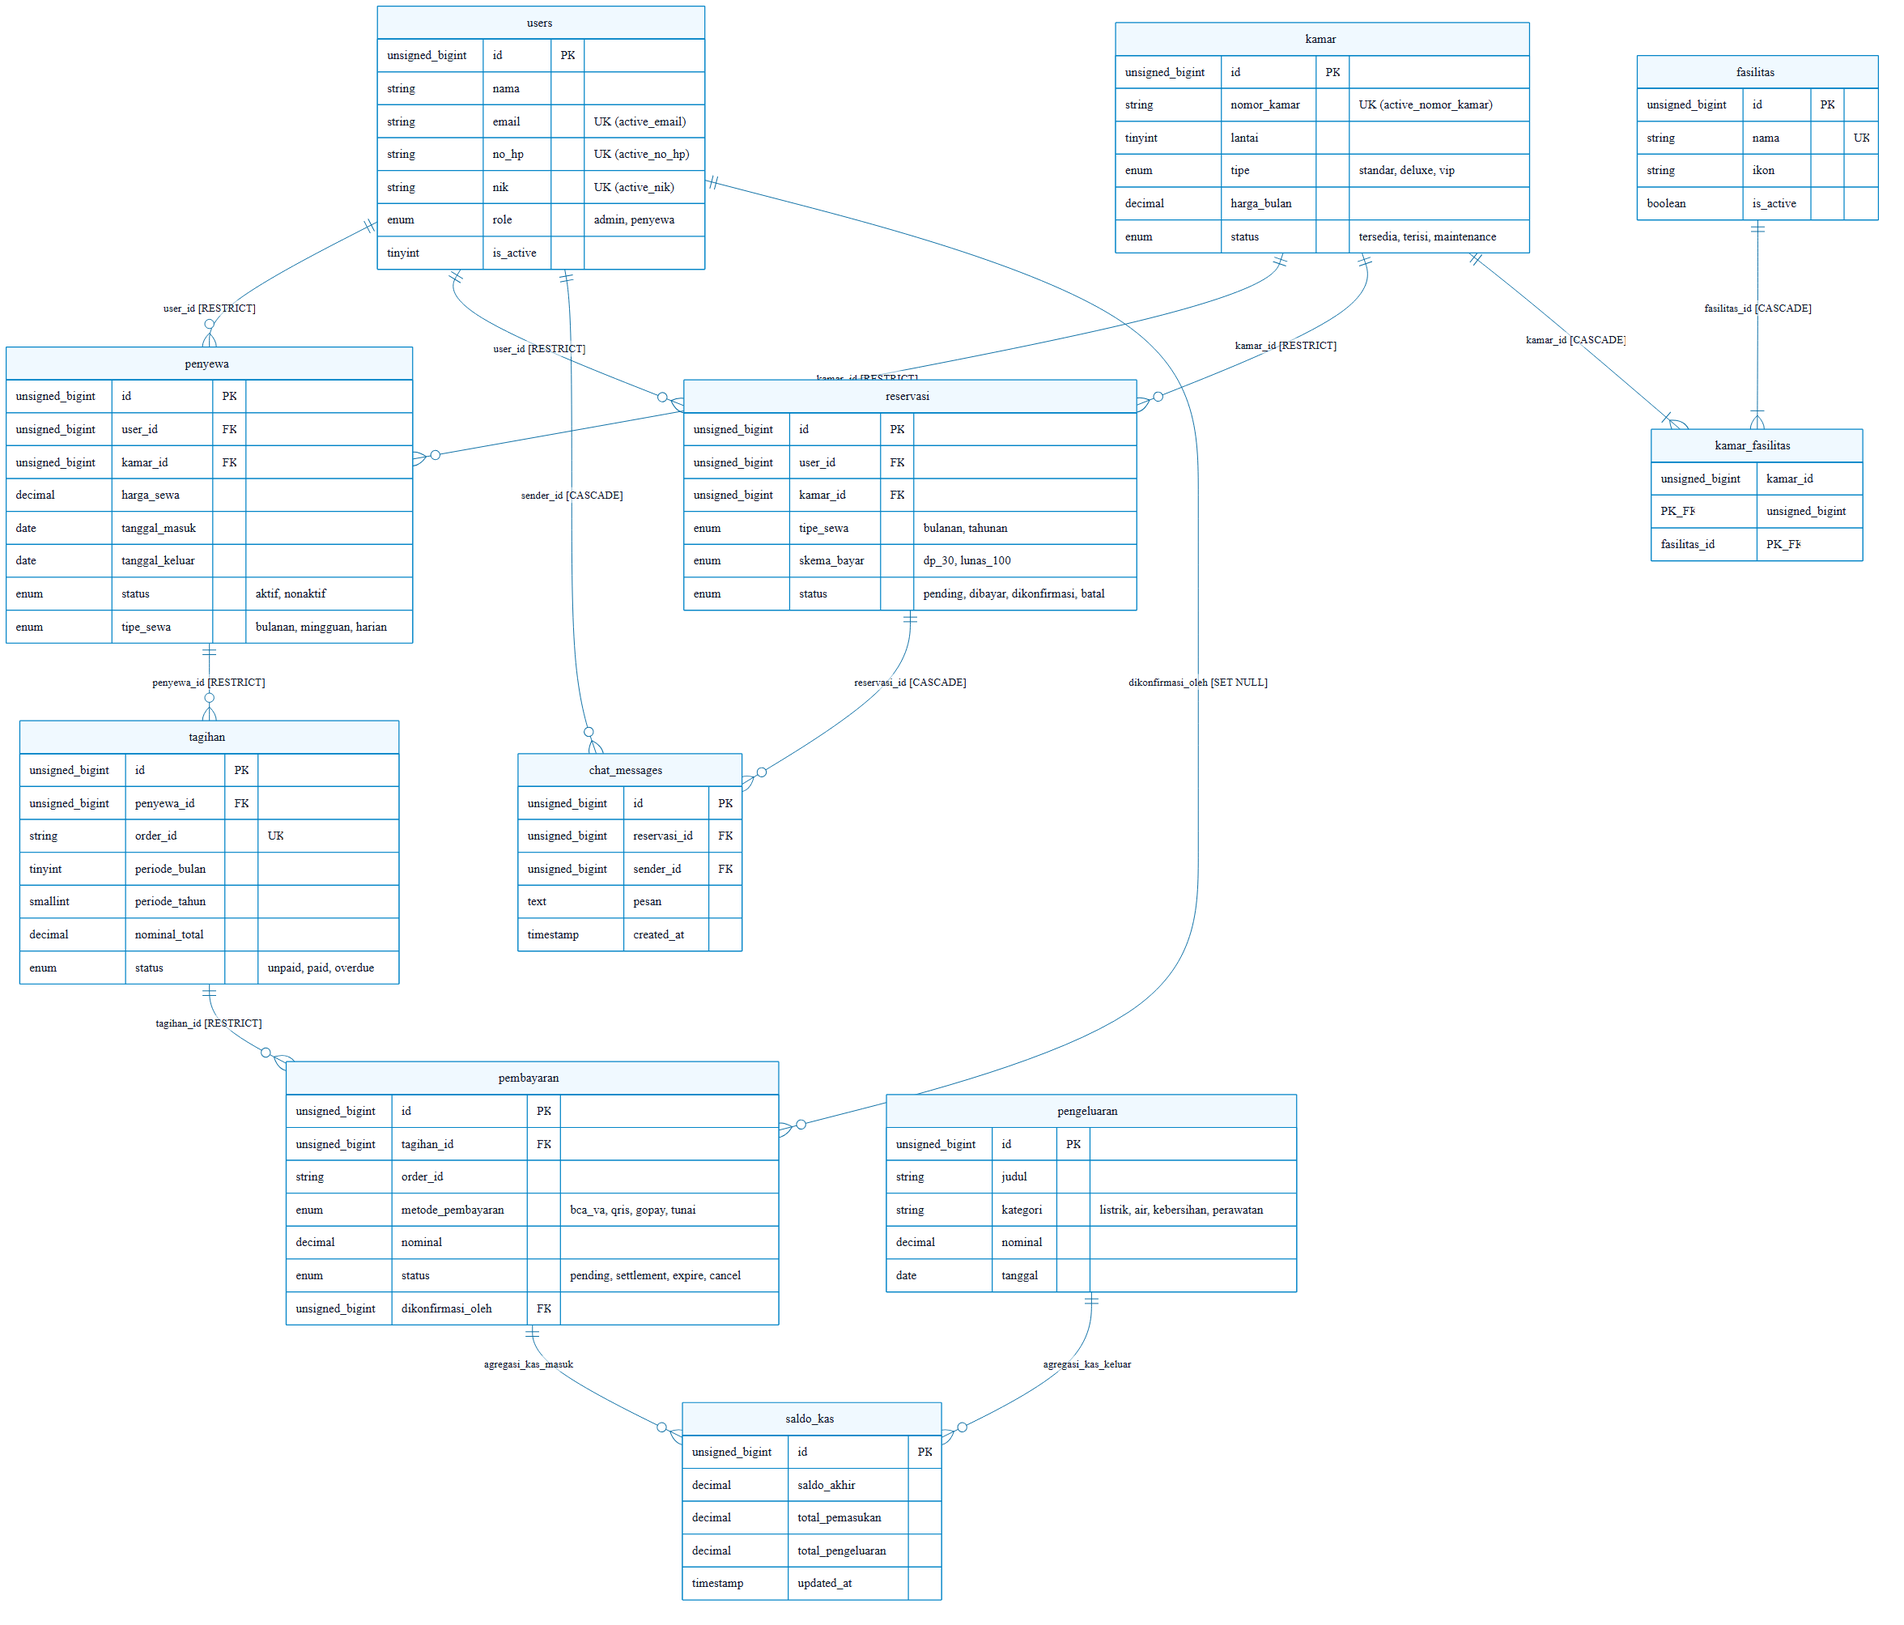
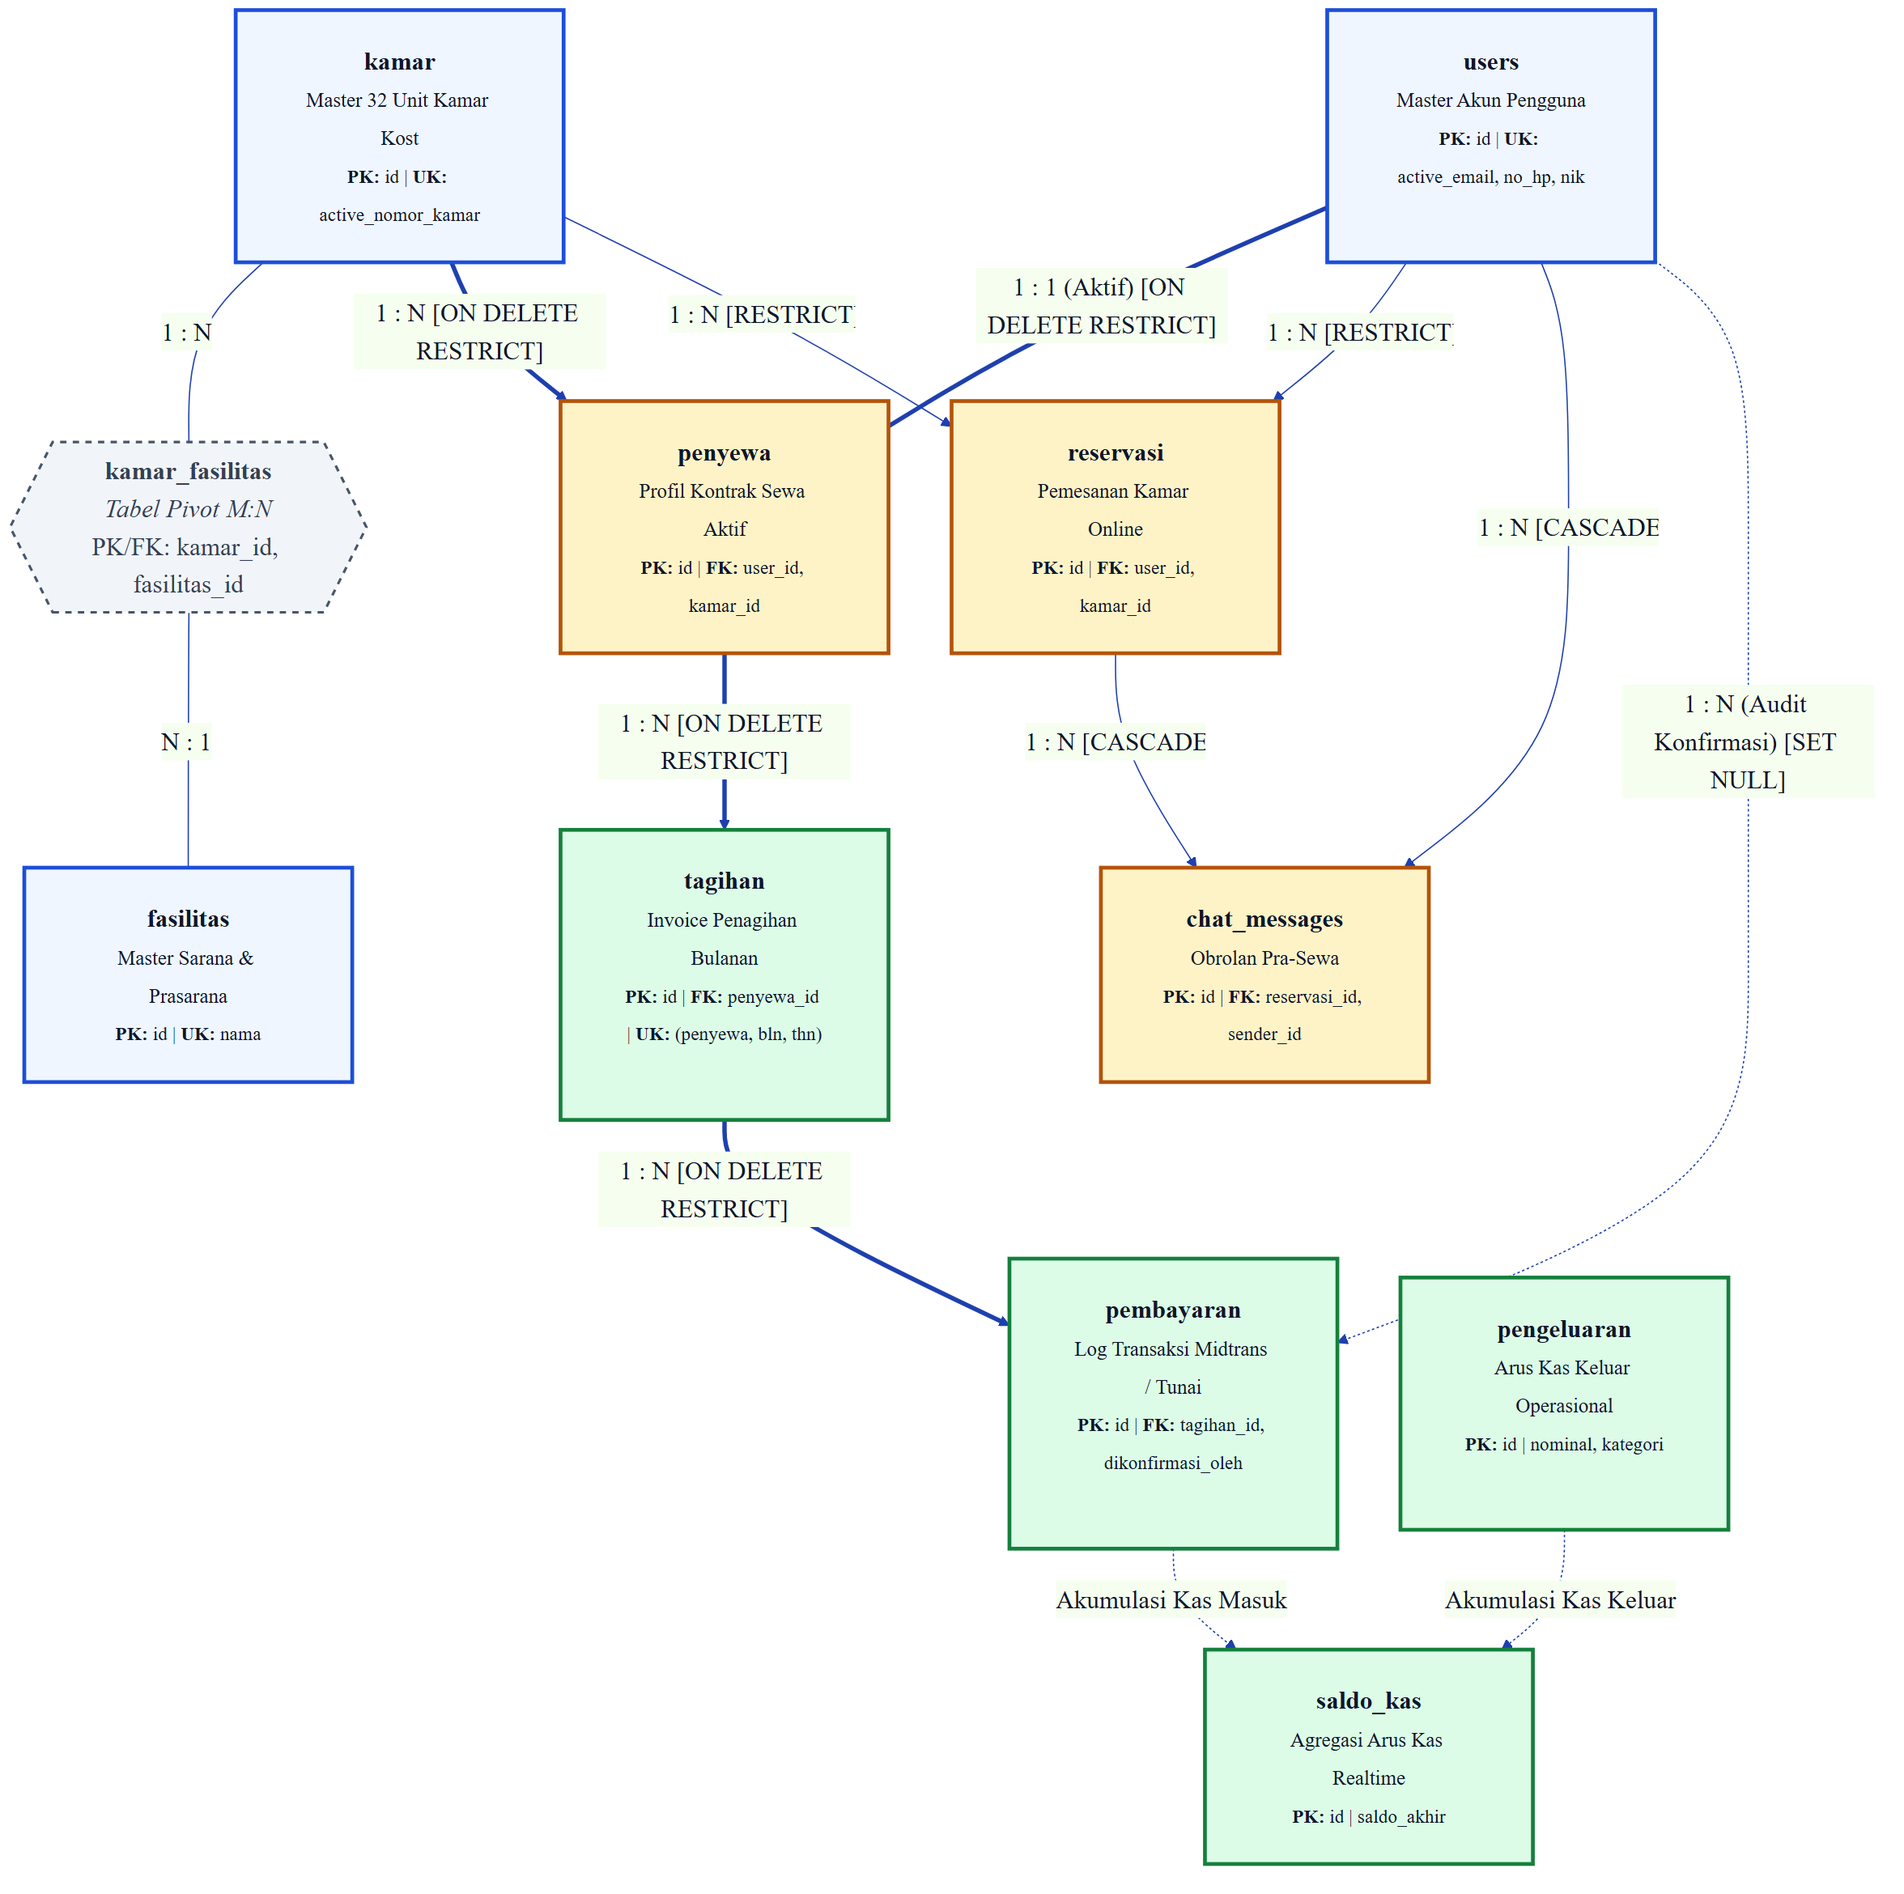
docs(skripsi): revisi ERD arsitektur global 22 tabel dengan kartu entitas berskala besar (Gambar 4.5 a1, a2, dan a3)

diff --git a/Skripsi/Skripsi_Rafif_Arsya_Pradiva_22.N4.0014.md b/Skripsi/Skripsi_Rafif_Arsya_Pradiva_22.N4.0014.md
@@ -778,43 +778,54 @@ Skema basis data dirancang berlandaskan kaidah Bentuk Normal Ketiga (*Third Norm
 
 Skema basis data secara keseluruhan mencakup 22 tabel relasional. Guna menjamin keunikan nilai kolom tanpa merusak jejak historis penghapusan lunak (*soft deletes*), sistem menerapkan fitur *Virtual Generated Columns* berindeks unik pada MySQL 8.x, seperti `active_email`, `active_no_hp`, dan `active_nik` pada tabel `users`, `active_nomor_kamar` pada tabel `kamar`, `active_nik` pada tabel `penyewa`, serta `active_order_id` pada tabel `reservasi`. Kolom-kolom virtual ini bernilai identik dengan kolom aslinya saat data berstatus aktif (`deleted_at IS NULL`), dan berubah menjadi `NULL` saat baris data dihapus lunak. Mengingat arsitektur MySQL mengizinkan keberadaan nilai `NULL` ganda pada batasan indeks unik (*unique index*), keunikan data aktif tetap terjaga secara konsisten tanpa perlu memodifikasi string data historis.
 
-Guna memastikan setiap entitas, atribut kolom, kunci primer/asing, dan derajat relasi dapat ditelaah secara jelas, tajam, dan nyaman dibaca oleh pembimbing maupun penguji, arsitektur global skema relasi basis data disajikan secara modular melalui 2 kluster utama beresolusi tinggi (Gambar 4.5 a1 dan a2), yang kemudian didukung oleh 4 diagram kluster spesifik domain (Gambar 4.5 b, c, d, dan e):
+Guna memastikan setiap entitas, peran bisnis, kunci primer/asing, dan derajat relasi dapat ditelaah secara jelas, tajam, dan sangat nyaman dibaca oleh pembimbing maupun penguji skripsi tanpa kendala teks menciut (*microscopic clutter*), arsitektur global skema relasi 22 tabel basis data disajikan secara terstruktur melalui 3 kluster arsitektur kartu entitas (*architectural entity cards*) berskala besar (Gambar 4.5 a1, a2, dan a3), yang kemudian diperdalam oleh 4 diagram kluster relasional spesifik domain (Gambar 4.5 b, c, d, dan e):
 
 #### 1. Arsitektur Global Skema Relasi 22 Tabel Basis Data
-Pemodelan relasional menyeluruh 22 tabel basis data dipecah menjadi 2 kluster struktural berdimensi proporsional dan tipografi berskala besar:
+Pemodelan relasional menyeluruh 22 tabel basis data diorganisasikan ke dalam 3 diagram arsitektural berdimensi proporsional, berlatar bersih, dan bertipografi besar (*font size 20px* dengan kartu entitas selebar 4,5–6 cm):
 
-##### a. Kluster Inti Transaksional dan Finansial (11 Tabel Utama)
-Peta relasi entitas inti yang mengatur akun pengguna, manajemen unit hunian, siklus reservasi, serta transaksi perputaran finansial disajikan pada Gambar 4.5 (a1).
+##### a. Kluster Inti Master Hunian, Kontrak Sewa, dan Transaksi Finansial (10 Tabel Utama)
+Peta topologi relasi entitas inti yang mengatur master hunian kos, akun pengguna, siklus pemesanan daring, kontrak sewa aktif, serta perputaran finansial penagihan dan kas disajikan pada Gambar 4.5 (a1).
 
-![Gambar 4.5 (a1) Arsitektur Global Skema Relasi Basis Data — Kluster Inti Transaksional dan Finansial](images/erd_global_part1_transaksional.png)
+![Gambar 4.5 (a1) Arsitektur Global Skema Relasi Basis Data — Kluster Inti Master Hunian, Kontrak Sewa, dan Finansial](images/erd_global_part1_transaksional.png)
 
-*Gambar 4.5 (a1) Arsitektur Global Skema Relasi Basis Data — Kluster Inti Transaksional dan Finansial (11 Tabel Utama)*  
+*Gambar 4.5 (a1) Arsitektur Global Skema Relasi Basis Data — Kluster Inti Master Hunian, Kontrak Sewa, dan Finansial (10 Tabel Utama)*  
 *Sumber: Hasil analisis basis data penulis (2026)*
 
 **Deskripsi Fungsional Gambar 4.5 (a1)**:
-Diagram Bagian 1 merepresentasikan topologi relasional dari 11 entitas inti yang mengendalikan seluruh operasional bisnis Asri Boarding House. Hubungan antar-entitas dipagari oleh aturan integritas referensial yang sangat ketat:
-1. **Autentikasi dan Identitas Penghuni**: Entitas `users` berelasi satu-ke-satu (`1:1`) aktif terhadap entitas `penyewa` melalui kunci asing `user_id` dengan aturan `ON DELETE RESTRICT`, menjamin data profil penyewa tidak dapat terhapus selama relasi akun masih terikat. Keunikan akun dilindungi oleh *Virtual Generated Columns* berindeks unik (`active_email`, `active_no_hp`, dan `active_nik`).
-2. **Master Unit Hunian dan Sarana**: Entitas fisik 32 unit kos pada tabel `kamar` terhubung ke master sarana `fasilitas` melalui tabel pivot `kamar_fasilitas` yang menerapkan integritas komposit `(kamar_id, fasilitas_id)` dengan aturan `ON DELETE CASCADE`. Satu unit `kamar` dapat ditempati oleh penyewa dalam rentang waktu kontrak yang berbeda (`1:N` historis) di mana keunikan kamar aktif dijaga oleh kolom virtual `active_nomor_kamar`.
-3. **Pemesanan Kamar Daring (*Pre-Payment*)**: Calon penyewa mengajukan pemesanan melalui entitas `reservasi` (`user_id`, `kamar_id`). Entitas ini berelasi `1:N` dengan `chat_messages` (`ON DELETE CASCADE`) sebagai ruang konsultasi sebelum pembayaran uang muka/lunas diselesaikan melalui payment gateway.
-4. **Siklus Penagihan Bulanan dan Pembayaran Non-Tunai**: Entitas `penyewa` berelasi `1:N` dengan `tagihan`. Integritas penagihan dijamin oleh batasan indeks unik komposit `(penyewa_id, periode_bulan, periode_tahun)` sehingga mesin *auto-billing* mustahil menerbitkan tagihan ganda pada periode yang sama. Satu entitas `tagihan` berelasi `1:N` terhadap jejak transaksi `pembayaran` (`ON DELETE RESTRICT`) yang mencatat `order_id`, saluran transfer perbankan, dan token settlement Midtrans Snap.
-5. **Akuntabilitas Arus Kas (*Cash Flow Aggregation*)**: Setiap mutasi pembayaran terkonfirmasi (`pembayaran`) dan arus kas keluar biaya operasional (`pengeluaran`) diagregasikan secara *real-time* ke dalam entitas rekapitulasi `saldo_kas`, menjamin transparansi posisi keuangan kos secara akurat dan konsisten.
+Diagram Bagian 1 merepresentasikan topologi relasional dari 10 entitas inti yang mengendalikan operasional transaksi hunian dan keuangan kos Asri Boarding House. Hubungan antar-entitas dipagari oleh aturan integritas referensial ketat:
+1. **Domain Master Hunian dan Pengguna**: Entitas akun `users` berelasi satu-ke-satu (`1:1`) aktif terhadap entitas `penyewa` melalui foreign key `user_id` dengan aturan `ON DELETE RESTRICT`, menjamin profil sewa tidak dapat terhapus secara tidak sengaja selama masa huni masih berjalan. Keunikan akun dilindungi oleh *Virtual Generated Columns* berindeks unik (`active_email`, `active_no_hp`, dan `active_nik`). Entitas fisik 32 unit kos pada tabel `kamar` terhubung ke sarana kamar pada tabel `fasilitas` melalui tabel perantara `kamar_fasilitas` berindeks komposit `(kamar_id, fasilitas_id)` dengan aturan `ON DELETE CASCADE`.
+2. **Domain Reservasi Daring dan Kontrak Sewa**: Calon penghuni mengajukan sewa melalui entitas `reservasi` (`user_id`, `kamar_id`) yang berelasi `1:N` dengan `chat_messages` (`ON DELETE CASCADE`) untuk negosiasi atau konsultasi pra-sewa. Saat pembayaran uang muka/lunas terkonfirmasi oleh pengelola kos, data reservasi bermutasi menjadi baris aktif pada entitas `penyewa` (`kamar_id`, `user_id`, `harga_sewa`, `tanggal_masuk`).
+3. **Domain Penagihan Bulanan, Pembayaran, dan Arus Kas**: Entitas `penyewa` berelasi `1:N` dengan `tagihan`. Integritas penagihan dijamin oleh batasan unik komposit `(penyewa_id, periode_bulan, periode_tahun)` sehingga mesin penagihan otomatis (*auto-billing*) tidak akan pernah menerbitkan dua tagihan pada periode bulan kalender yang sama. Satu entitas `tagihan` berelasi `1:N` terhadap mutasi `pembayaran` (`ON DELETE RESTRICT`) yang mencatat `order_id`, kanal pembayaran perbankan, dan token transaksi Midtrans Snap. Seluruh mutasi pembayaran terverifikasi serta biaya operasional kos (`pengeluaran`) diagregasikan secara *real-time* ke dalam entitas ringkasan `saldo_kas`, menjamin transparansi akuntansi kos secara akurat.
 
 ---
 
-##### b. Kluster Layanan Operasional, Komunikasi, dan Interaksi Publik (11 Tabel Pendukung)
-Peta relasi entitas pendukung operasional, penanganan tiket komplain, audit log komunikasi WhatsApp, percakapan tamu publik, serta manajemen konten CMS disajikan pada Gambar 4.5 (a2).
+##### b. Kluster Layanan Penghuni, Tiket Komplain, dan Interaksi Tamu Publik (6 Tabel Pendukung)
+Peta topologi relasi entitas pendukung penanganan aduan fasilitas, audit log gateway notifikasi WhatsApp, jejak audit aktivitas sistem, serta interaksi pengunjung publik anonim disajikan pada Gambar 4.5 (a2).
 
-![Gambar 4.5 (a2) Arsitektur Global Skema Relasi Basis Data — Kluster Layanan Operasional, Komunikasi, dan Interaksi Publik](images/erd_global_part2_operasional.png)
+![Gambar 4.5 (a2) Arsitektur Global Skema Relasi Basis Data — Kluster Layanan Penghuni, Tiket Komplain, dan Interaksi Tamu Publik](images/erd_global_part2_layanan_tamu.png)
 
-*Gambar 4.5 (a2) Arsitektur Global Skema Relasi Basis Data — Kluster Layanan Operasional, Komunikasi, dan Interaksi Publik (11 Tabel Pendukung)*  
+*Gambar 4.5 (a2) Arsitektur Global Skema Relasi Basis Data — Kluster Layanan Penghuni, Tiket Komplain, dan Interaksi Tamu Publik (6 Tabel Pendukung)*  
 *Sumber: Hasil analisis basis data penulis (2026)*
 
 **Deskripsi Fungsional Gambar 4.5 (a2)**:
-Diagram Bagian 2 menyajikan 11 entitas pendukung yang disusun dalam empat tingkatan (*multi-tier*) hierarkis guna menjaga kelancaran operasional kos, transparansi audit komunikasi, dan keterlibatan pengunjung publik:
-1. **Layanan Pemeliharaan dan Tiket Keluhan**: Penghuni aktif mengajukan aduan sarana melalui entitas `keluhan` (`penyewa_id`, `judul`, `foto_kerusakan`, `status`, `tanggapan_admin`) yang terikat dengan aturan `ON DELETE CASCADE`. Setiap pembaruan penanganan keluhan mencatat riwayat eskalasi ke dalam entitas `log_notifikasi`.
-2. **Audit Jejak Notifikasi dan Pemberitahuan Sistem**: Entitas `log_notifikasi` bertindak sebagai sentral pencatatan audit pesan keluar gateway WhatsApp Fonnte dan surel SMTP (`penerima`, `pesan`, `status_kirim`), terhubung ke `penyewa_id` dan `tagihan_id`. Entitas `notifikasi_khusus` mencatat peristiwa kritis sistem bagi akun pengguna (`user_id`, `tipe`, `dibaca`). Pengelola kos mendistribusikan siaran pengumuman penting terpusat melalui entitas `pengumuman` (`target_role`, `is_active`).
-3. **Interaksi Pengunjung Tamu Landing Page**: Pengunjung tanpa login yang mengakses landing page dapat berkonsultasi secara anonim melalui entitas `guest_chat_threads` yang diidentifikasi melalui token sesi terenkripsi SHA-256 (`session_token`) dan alamat IP. Utas ini berelasi `1:N` dengan `guest_chat_messages` (`ON DELETE CASCADE`). Konversi pemasaran diukur melalui entitas `whatsapp_clicks` yang merekam setiap klik tombol *floating WhatsApp* ke nomor pengelola kos.
-4. **Tata Kelola CMS Dinamis dan Reputasi Publik**: Entitas `customer_reviews` menampung ulasan testimoni penghuni yang telah disetujui kurasinya (`is_published`). Pengelola mengatur parameter operasional kos secara dinamis melalui entitas `settings` (`key-value pair` unik), yang terhubung secara konseptual dengan penyediaan panduan tanya-jawab interaktif (`faqs`), publikasi tata tertib hunian (`peraturan`), serta katalog dokumentasi visual fasilitas gedung (`galleries`).
+Diagram Bagian 2 menyajikan 6 entitas pendukung operasional yang disusun dalam struktur dua cabang simetris yang bertumpu pada entitas induk pengguna (`users` dan `penyewa`):
+1. **Cabang Layanan Komplain dan Audit Log**: Penghuni aktif menyampaikan laporan kerusakan fasilitas melalui entitas `keluhan` (`penyewa_id`, `judul`, `foto_kerusakan`, `status`, `tanggapan_admin`) beraturan `ON DELETE CASCADE`. Setiap perubahan status tindak lanjut aduan memicu pencatatan riwayat pada entitas `log_notifikasi`. Entitas `log_notifikasi` mencatat jejak audit seluruh transmisi pesan keluar WhatsApp Fonnte dan surel SMTP (`penyewa_id`, `tagihan_id`, `penerima`, `pesan`, `status_kirim`). Peristiwa penting sistem dicatat pada entitas `notifikasi_khusus` (`user_id`, `tipe`, `dibaca`).
+2. **Cabang Interaksi Pengunjung Tamu dan Analitik**: Pengunjung tanpa login pada landing page berkonsultasi melalui entitas `guest_chat_threads` yang diamankan oleh token sesi terenkripsi SHA-256 (`session_token`) dan alamat IP. Utas ini berelasi `1:N` terhadap pesan obrolan pada entitas `guest_chat_messages` (`ON DELETE CASCADE`). Efektivitas promosi digital dan rasio konversi pemasaran diukur secara otomatis oleh entitas `whatsapp_clicks` yang merekam setiap peristiwa klik tombol mengambang WhatsApp menuju kontak pengelola kos.
+
+---
+
+##### c. Kluster Manajemen Konten CMS, Regulasi Hunian, dan Reputasi Publik (6 Tabel Pendukung)
+Peta topologi relasi entitas tata kelola informasi publik, regulasi tata tertib hunian, dokumentasi multimedia, dan manajemen reputasi disajikan pada Gambar 4.5 (a3).
+
+![Gambar 4.5 (a3) Arsitektur Global Skema Relasi Basis Data — Kluster Manajemen Konten CMS, Regulasi Hunian, dan Reputasi Publik](images/erd_global_part3_cms_publik.png)
+
+*Gambar 4.5 (a3) Arsitektur Global Skema Relasi Basis Data — Kluster Manajemen Konten CMS, Regulasi Hunian, dan Reputasi Publik (6 Tabel Pendukung)*  
+*Sumber: Hasil analisis basis data penulis (2026)*
+
+**Deskripsi Fungsional Gambar 4.5 (a3)**:
+Diagram Bagian 3 memodelkan 6 entitas pendukung publikasi digital yang dikendalikan oleh administrator sistem guna menyajikan transparansi informasi kepada publik:
+1. **Pengaturan Dinamis dan Komunikasi Terpusat**: Entitas `settings` menampung konfigurasi parameter operasional kos secara dinamis (`key-value pair` unik). Administrator mempublikasikan maklumat darurat atau operasional berkala melalui entitas `pengumuman` (`target_role`, `is_active`, `tanggal_mulai`). Pengalaman tinggal penghuni dihimpun pada entitas `customer_reviews` (`penyewa_id`, `rating`, `komentar`, `is_published`) guna menampilkan testimoni terkurasi yang otentik pada halaman beranda.
+2. **Informasi Regulasi dan Galeri Multimedia**: Calon penyewa dapat menelaah pertanyaan umum pada entitas `faqs` (`kategori`, `pertanyaan`, `jawaban`, `is_active`), mematuhi tata tertib kos pada entitas `peraturan` (`nomor_pasal`, `judul`, `isi_peraturan`, `status_aktif`), serta meninjau dokumentasi gedung dan fasilitas pada entitas `galleries` (`kategori`, `file_path`, `urutan`). Seluruh entitas ini memastikan calon penyewa memperoleh kepastian informasi yang lengkap sebelum memutuskan untuk menyewa kamar.
 
 ---
 
